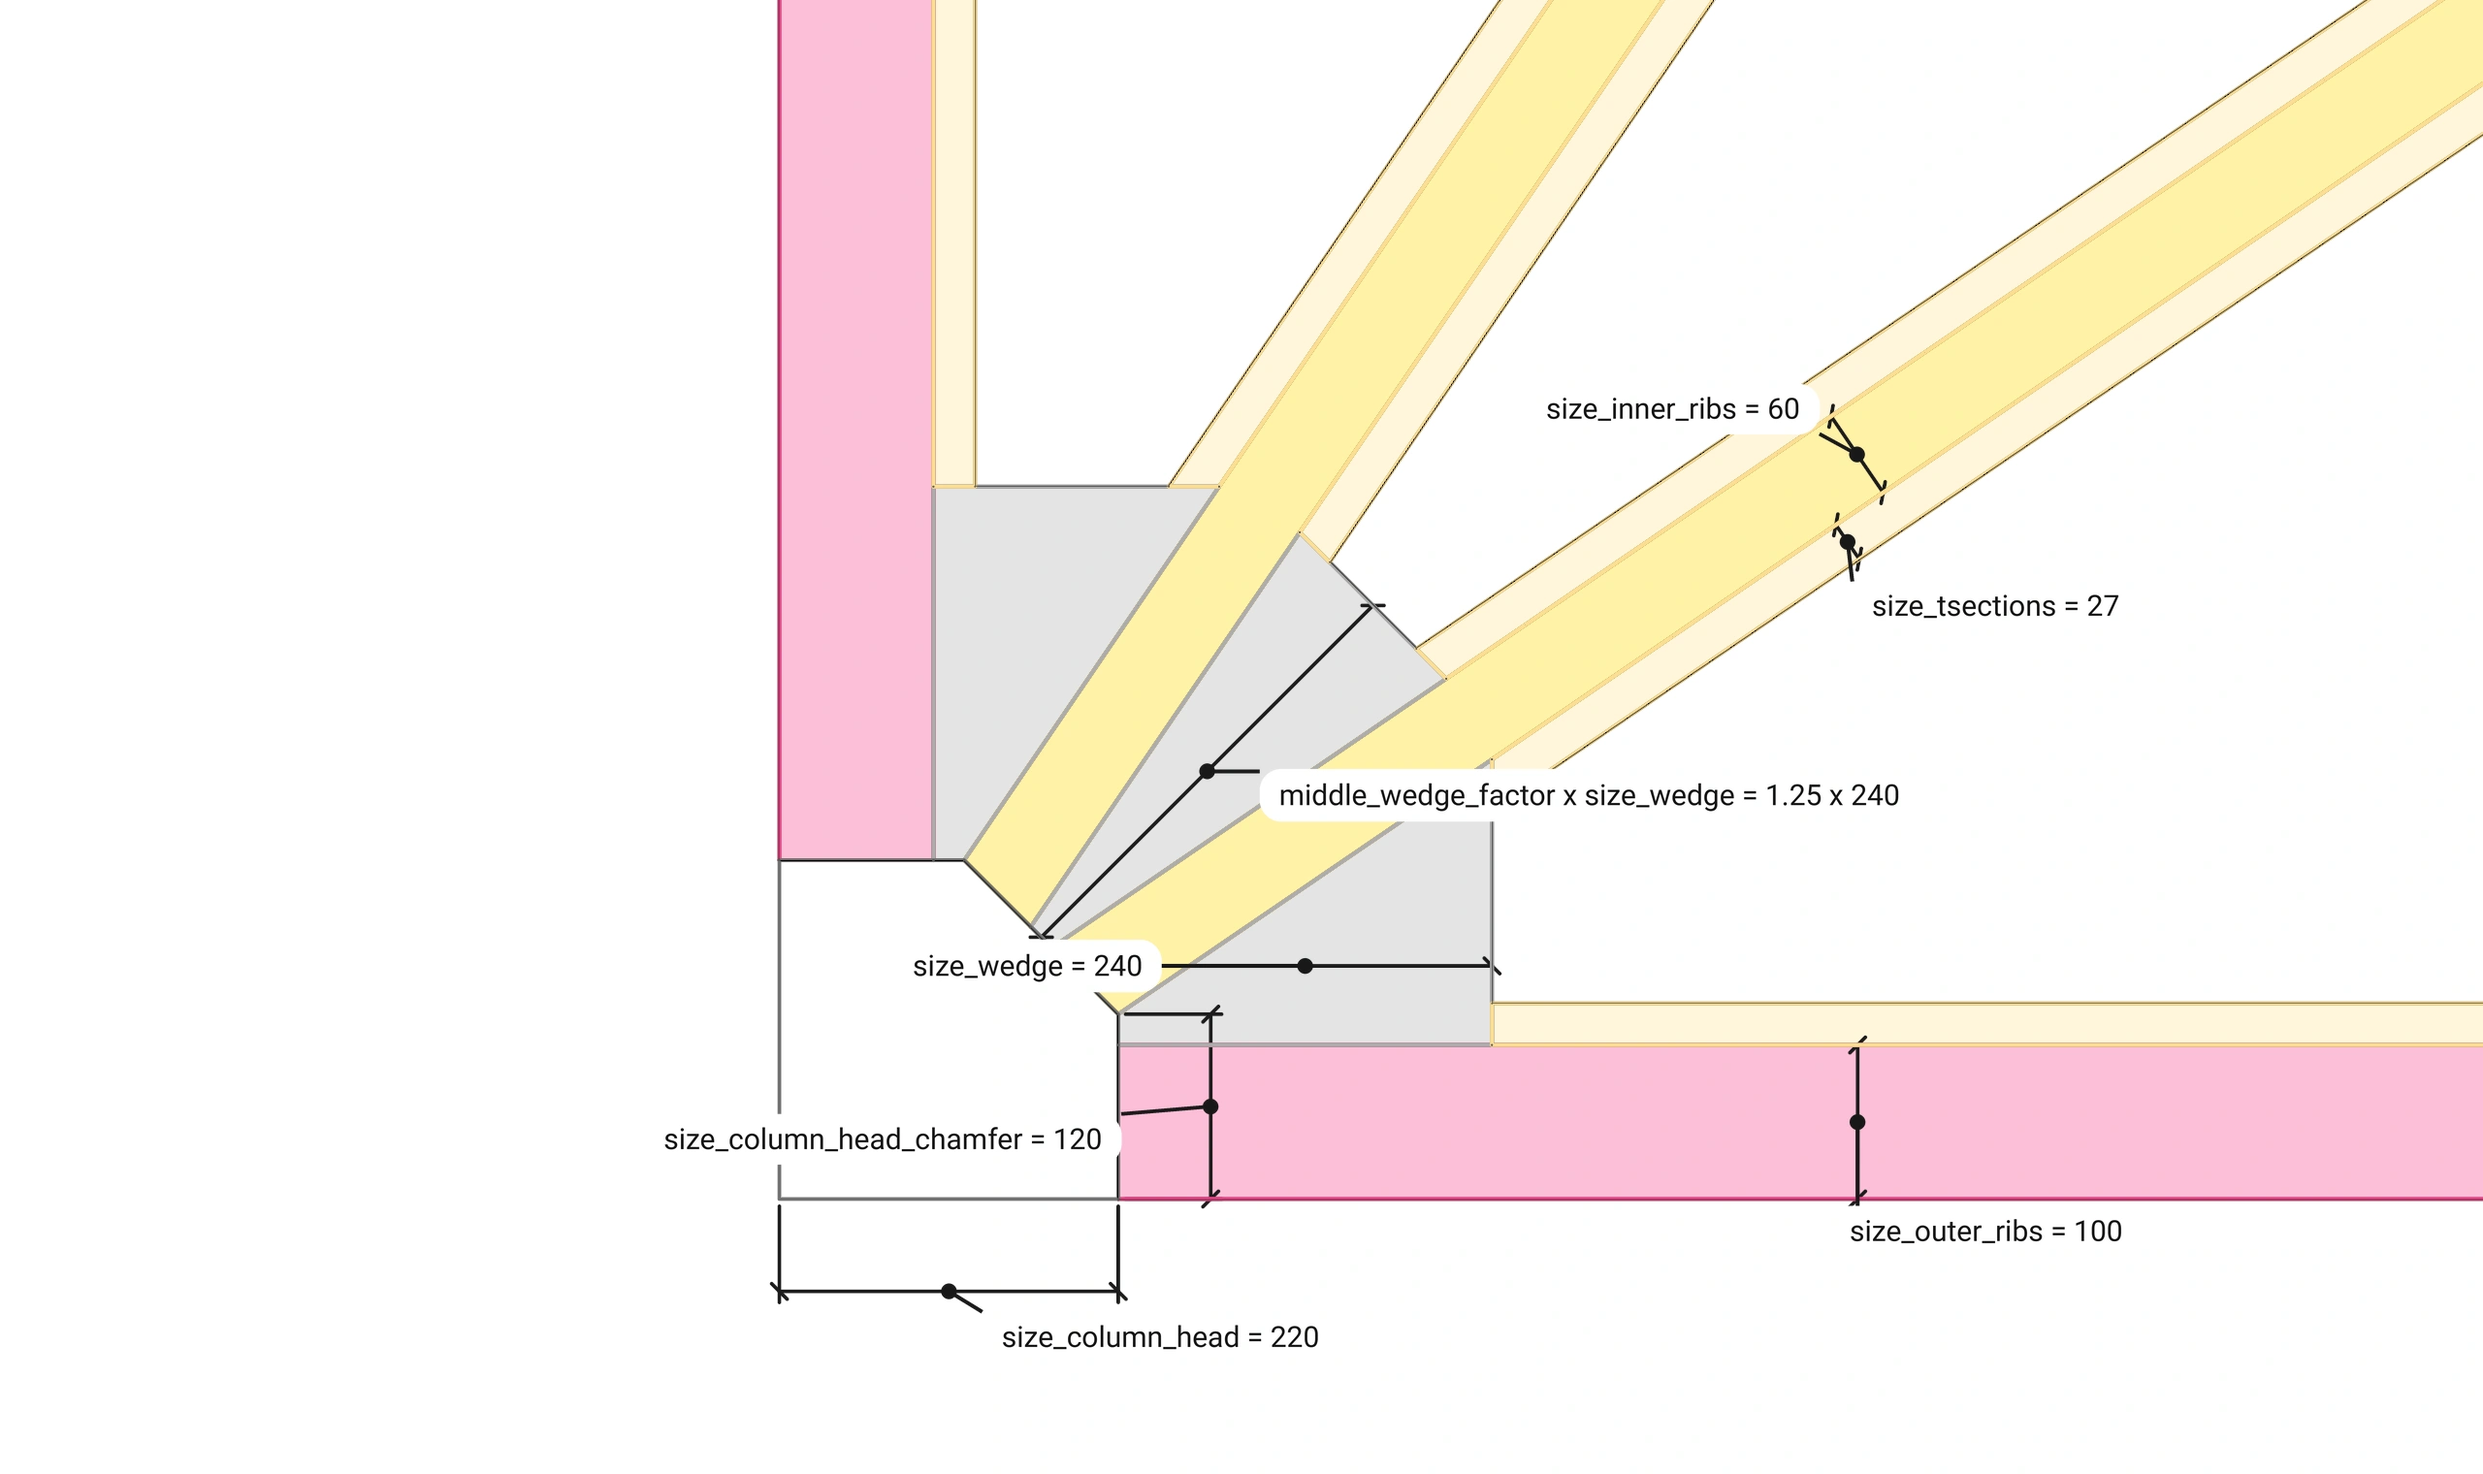
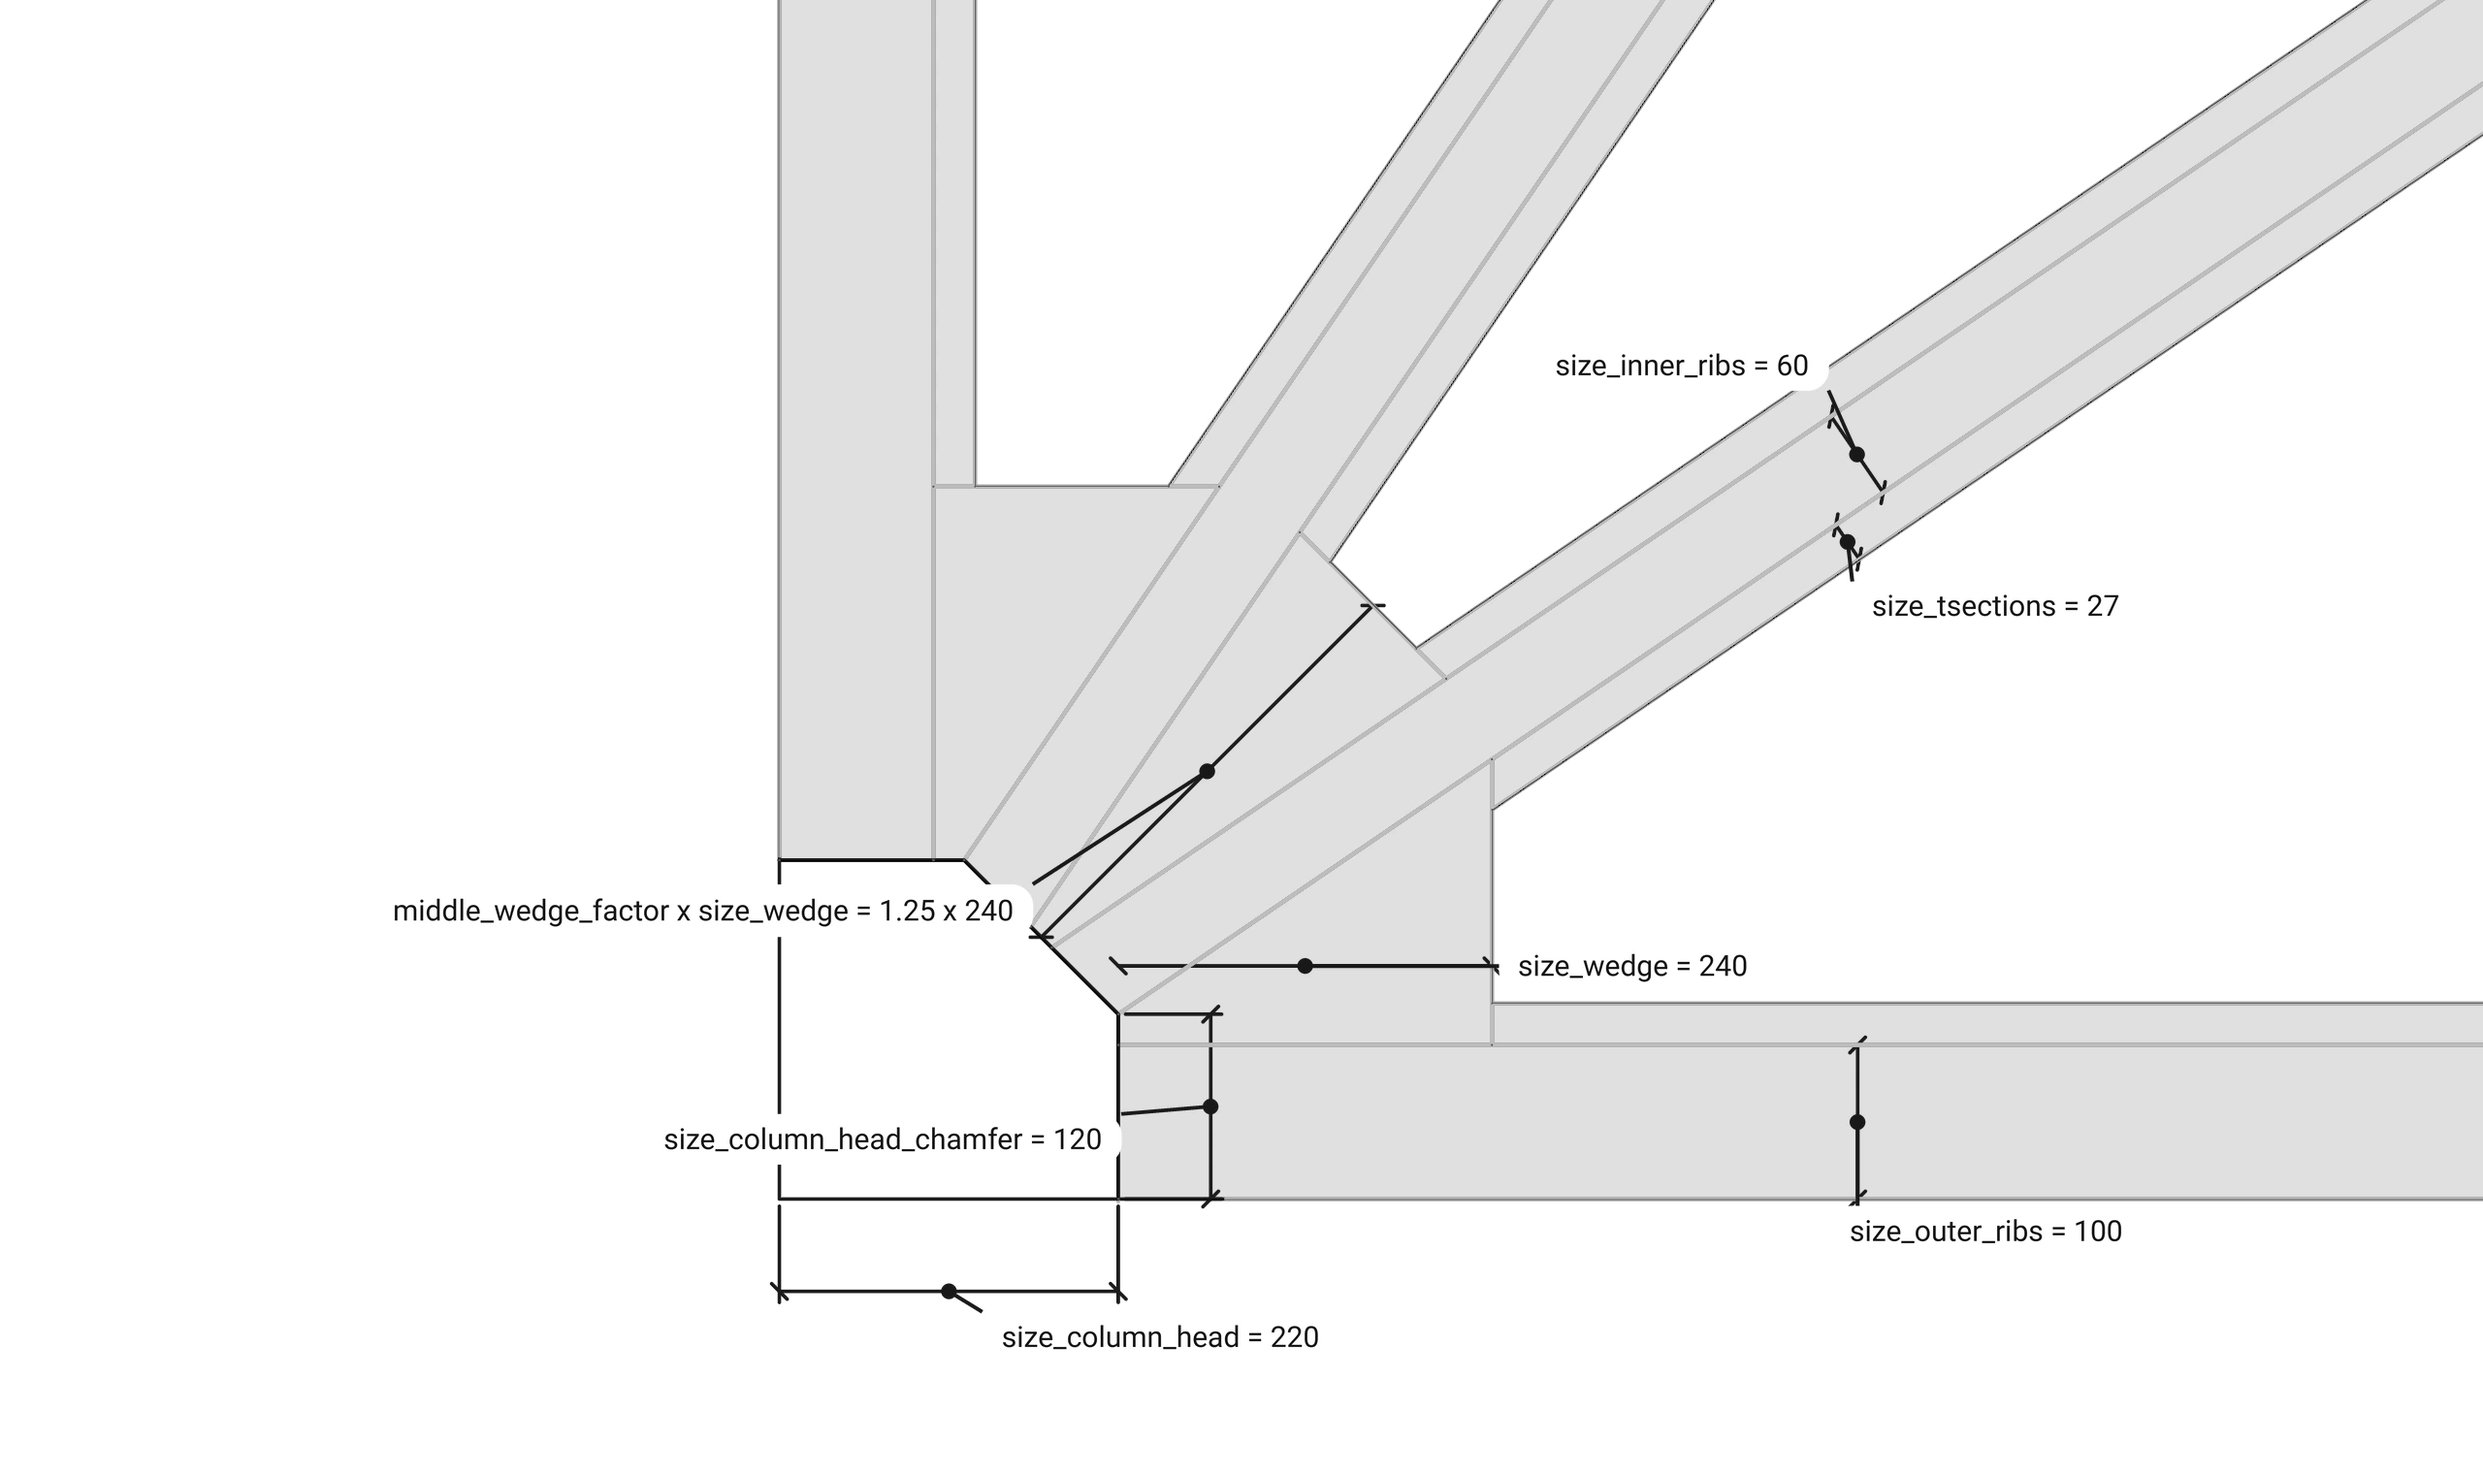
wood: FloorGuide parameters in three grey pictures, the leaning planes in the elevation

Changed region(s): [[0.3125, 0.0, 1.0, 0.8349], [0.1875, 0.6184, 0.25, 0.6493], [0.1562, 0.5875, 0.1875, 0.6184]]

diff --git a/docs/templates/floor_guide.md b/docs/templates/floor_guide.md
@@ -91,13 +91,10 @@ The column head in plan: the head, its chamfer, the wedges, the ribs and the t-s
 
 ![The column head parameters](floor/942_parameters_head.webp)
 
-Outer rib 0 and column 0 in elevation: `bay_height`, `height`, `rise` and `column_head_depth`.
+Outer rib 0 and column 0 in elevation: `bay_height`, `height`, `rise`, `column_head_depth`, and the two leaning planes seen edge-on, `wedge_plane_angle` and `oculus_plane_angle`.
 
 ![The elevation parameters](floor/943_parameters_elevation.webp)
 
-The two leaning planes seen edge-on: the middle wedge's fan plane and the oculus beam's bearing plane.
-
-![The leaning planes](floor/944_parameters_angles.webp)
 
 Every parameter is a constructor argument with its default, kept as a read-only field of `FloorGuide`. Sizes are in mm, angles in degrees.
 
